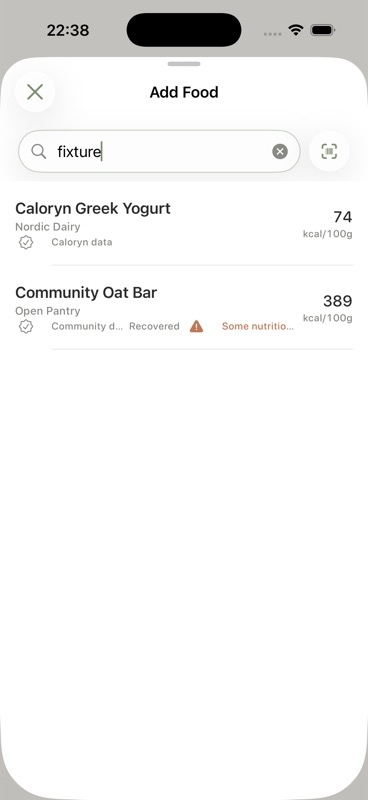
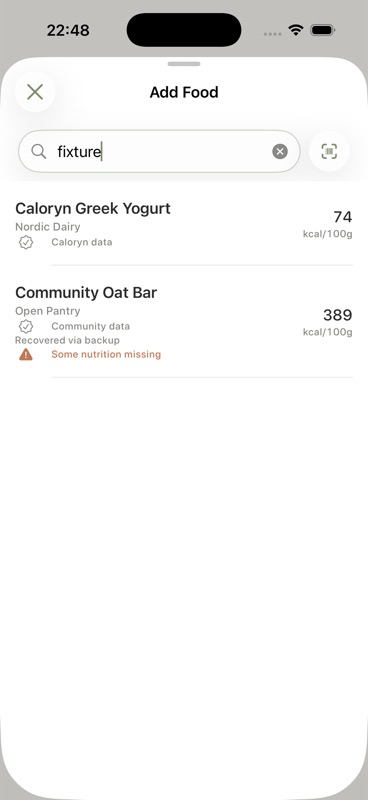
Fix provider evidence readability

diff --git a/Caloryn/Views/FoodLog/FoodRowView.swift b/Caloryn/Views/FoodLog/FoodRowView.swift
@@ -58,21 +58,24 @@ struct FoodRowView: View {
                 }
 
                 if let provenance, provenance.source != .userEntered {
-                    HStack(spacing: 6) {
+                    VStack(alignment: .leading, spacing: 2) {
                         Label(provenance.source.shortLabel, systemImage: "checkmark.seal")
+                            .accessibilityLabel("Data source: \(provenance.source.shortLabel)")
 
                         if provenance.recoveredByFallback {
-                            Text("Recovered")
+                            Text("Recovered via backup")
+                                .accessibilityLabel("Recovered using backup provider")
                         }
 
                         if let warning = provenance.completeness.warningLabel {
                             Label(warning, systemImage: "exclamationmark.triangle.fill")
                                 .foregroundStyle(CalorynTheme.terracotta)
+                                .accessibilityLabel("Nutrition completeness: \(warning)")
                         }
                     }
                     .font(CalorynTheme.numericMicroCaption)
                     .foregroundStyle(CalorynTheme.textSecondary)
-                    .lineLimit(1)
+                    .fixedSize(horizontal: false, vertical: true)
                 }
             }
 

diff --git a/Caloryn/Views/FoodLog/FoodSearchView.swift b/Caloryn/Views/FoodLog/FoodSearchView.swift
@@ -295,7 +295,10 @@ struct FoodSearchView: View {
             .onAppear {
                 captureSuggestionsIfNeeded()
                 if automaticallyFocusSearch {
-                    isSearchFocused = true
+                    // Keep focus away from a covered search field while a barcode
+                    // result is presented so its navigation title settles cleanly.
+                    isSearchFocused = !isLookingUpBarcode
+                        && barcodeLookupError == nil
                 }
             }
             .task(id: pendingBarcode) {
